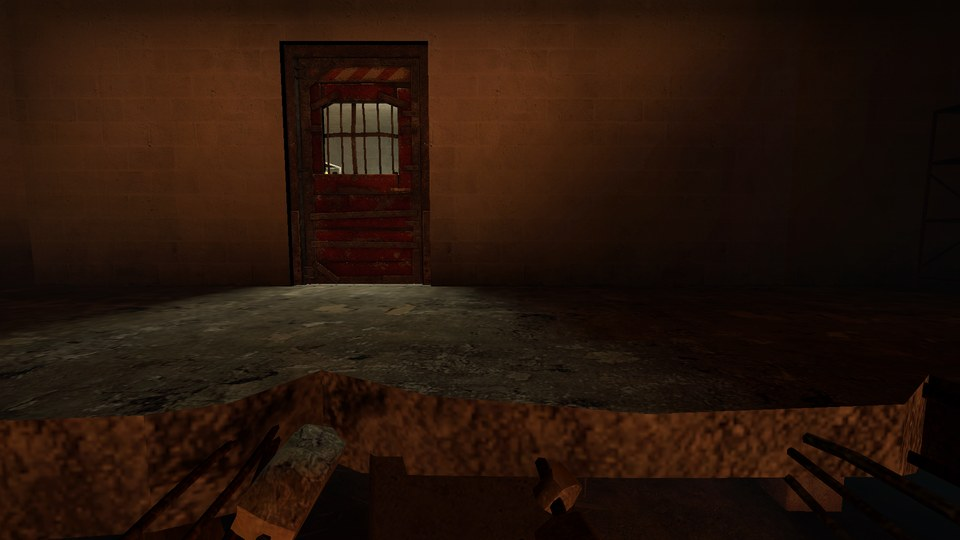
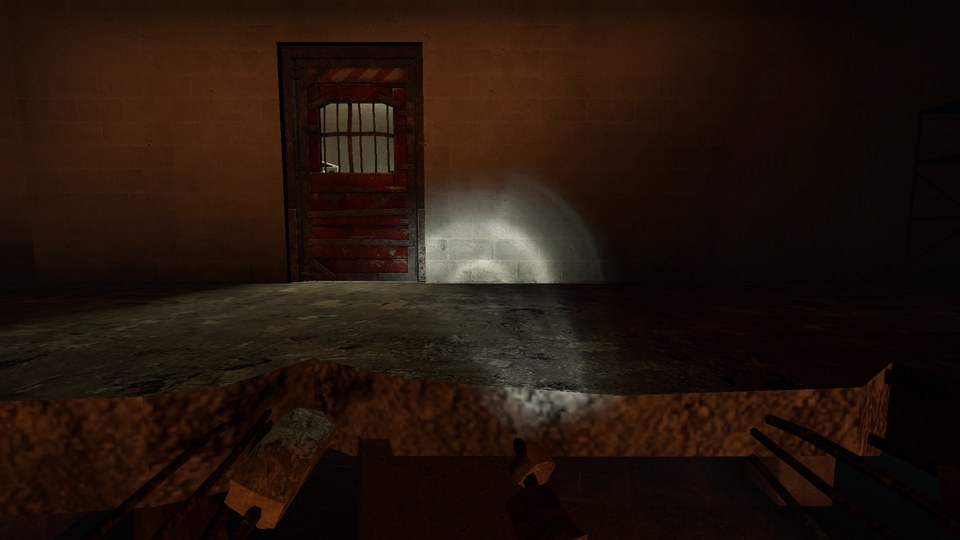
Autoexec glows: preview colours match the game in the infected views, item glow picture, ghost/spawned infected views
The glow strength masks were measured from one white shot, which clips on the bright infected-view
backgrounds, so infected-side glows showed 25-35% too weak and off-hue. Masks are now solved per pixel
from every unclipped channel of eight colour shots (new in-game captures, runs 4-6) and checked against
held-out shots at the default colours. Survivor glows seen as a ghost are the game's own outlines;
the item glow (the item under the crosshair, in reach / out of reach) has its own saferoom shot.

diff --git a/web/src/routes/Autoexec.tsx b/web/src/routes/Autoexec.tsx
@@ -1,3 +1,4 @@
+import type { ComponentChildren } from 'preact';
 import { useEffect, useMemo, useRef, useState } from 'preact/hooks';
 import { Panel } from '../components/bits';
 import { HudTabs } from '../components/HudTabs';
@@ -29,25 +30,32 @@ const HAS_CB = new Set(GLOWS.filter((g) => g.colorblind).map((g) => g.id.replace
 /** The cvar a row edits: its colour-blind variant while that set is being edited. */
 const rowId = (id: string, cb: boolean) => (cb && HAS_CB.has(id) ? `${id}_colorblind` : id);
 
+type Group = 'survivor' | 'items' | 'infected';
+const GROUP_OF: Record<Scene['id'], Group> = { survivor: 'survivor', items: 'items', ghost: 'infected', spawned: 'infected' };
+
 /** Which preview outline shows a glow, and what that outline is called while it does. */
-const SHOWN_ON: Record<string, { scene: Scene['id']; slot: string; label: string }> = {
-  survivor: { scene: 'survivor', slot: 'teammate', label: 'Teammate' },
-  survivor_hurt: { scene: 'survivor', slot: 'incap', label: 'Incapped' },
-  survivor_vomit: { scene: 'survivor', slot: 'boomed', label: 'Boomed' },
-  infected: { scene: 'infected', slot: 'teammate', label: 'Infected teammate' },
-  ghost_infected: { scene: 'infected', slot: 'teammate', label: 'Ghost teammate' },
-  survivor_health_high: { scene: 'infected', slot: 'high', label: 'High health' },
-  survivor_health_med: { scene: 'infected', slot: 'med', label: 'Medium health' },
-  survivor_health_low: { scene: 'infected', slot: 'low', label: 'Low health' },
-  infected_vomit: { scene: 'infected', slot: 'med', label: 'Boomed' },
-  ability: { scene: 'infected', slot: 'low', label: 'Ability' },
+const SHOWN_ON: Record<string, { group: Group; slot: string; label: string }> = {
+  survivor: { group: 'survivor', slot: 'teammate', label: 'Teammate' },
+  survivor_hurt: { group: 'survivor', slot: 'incap', label: 'Incapped' },
+  survivor_vomit: { group: 'survivor', slot: 'boomed', label: 'Boomed' },
+  item: { group: 'items', slot: 'item', label: 'In reach' },
+  item_far: { group: 'items', slot: 'item', label: 'Out of reach' },
+  thirdstrike_item: { group: 'items', slot: 'item', label: 'Black and white' },
+  infected: { group: 'infected', slot: 'teammate', label: 'Infected teammate' },
+  ghost_infected: { group: 'infected', slot: 'teammate', label: 'Ghost teammate' },
+  survivor_health_high: { group: 'infected', slot: 'high', label: 'High health' },
+  survivor_health_med: { group: 'infected', slot: 'med', label: 'Medium health' },
+  survivor_health_low: { group: 'infected', slot: 'low', label: 'Low health' },
+  infected_vomit: { group: 'infected', slot: 'boomed', label: 'Boomed' },
+  ability: { group: 'infected', slot: 'low', label: 'Ability' },
 };
 
 /** The glow each outline shows when nothing that shares it is picked. */
 const SLOT_DEFAULT: Record<string, string> = {
   'survivor/teammate': 'survivor', 'survivor/incap': 'survivor_hurt', 'survivor/boomed': 'survivor_vomit',
+  'items/item': 'item',
   'infected/teammate': 'infected', 'infected/high': 'survivor_health_high',
-  'infected/med': 'survivor_health_med', 'infected/low': 'survivor_health_low',
+  'infected/med': 'survivor_health_med', 'infected/low': 'survivor_health_low', 'infected/boomed': 'infected_vomit',
 };
 
 const PLAIN = GLOWS.filter((g) => !g.colorblind);
@@ -58,6 +66,7 @@ export function Autoexec() {
   const [focus, setFocus] = useState<string | null>(null);
   const [status, setStatus] = useState('');
   const [paste, setPaste] = useState('');
+  const [infView, setInfView] = useState<'ghost' | 'spawned'>('ghost');
 
   const set = (next: AutoexecState) => { setState(next); saveState(next); };
   const setGlow = (id: string, c: Rgb) => set({ ...state, glows: { ...state.glows, [id]: c } });
@@ -66,7 +75,7 @@ export function Autoexec() {
   const slotGlow = useMemo(() => {
     const out: Record<string, string> = { ...SLOT_DEFAULT };
     const at = focus ? SHOWN_ON[focus] : undefined;
-    if (at) out[`${at.scene}/${at.slot}`] = focus!;
+    if (at) out[`${at.group}/${at.slot}`] = focus!;
     return out;
   }, [focus]);
 
@@ -191,21 +200,33 @@ export function Autoexec() {
         </Panel>
 
         <div class="ax__previews">
-          {SCENES.map((scene) => (
-            <ScenePreview
-              key={scene.id} scene={scene} focus={focus}
-              colours={Object.fromEntries(scene.slots.map((s) => [s.key, colourOf(slotGlow[`${scene.id}/${s.key}`])]))}
-              labels={Object.fromEntries(scene.slots.map((s) => {
-                const id = slotGlow[`${scene.id}/${s.key}`];
-                return [s.key, SHOWN_ON[id].label];
-              }))}
-              picked={Object.fromEntries(scene.slots.map((s) => [s.key, slotGlow[`${scene.id}/${s.key}`] === focus]))}
-            />
-          ))}
+          {SCENES.filter((sc) => sc.id !== (infView === 'ghost' ? 'spawned' : 'ghost')).map((scene) => {
+            const g = GROUP_OF[scene.id];
+            const glowAt = (key: string) => slotGlow[`${g}/${key}`];
+            return (
+              <ScenePreview
+                key={scene.id} scene={scene} focus={focus}
+                switcher={g === 'infected' ? (
+                  <div class="ax__views" role="group" aria-label="Infected view">
+                    {(['ghost', 'spawned'] as const).map((v) => (
+                      <button key={v} type="button" class={`chip${infView === v ? ' is-on' : ''}`} aria-pressed={infView === v}
+                        onClick={() => setInfView(v)}>{v === 'ghost' ? 'Ghost' : 'Spawned'}</button>
+                    ))}
+                  </div>
+                ) : undefined}
+                colours={Object.fromEntries(scene.slots.map((s) => [s.key, colourOf(glowAt(s.key))]))}
+                labels={Object.fromEntries(scene.slots.map((s) => [s.key, SHOWN_ON[glowAt(s.key)].label]))}
+                picked={Object.fromEntries(scene.slots.map((s) => [s.key, glowAt(s.key) === focus]))}
+              />
+            );
+          })}
           <p class="muted ax__note">
-            Shots from the game at 1920 x 1080 with the outlines it draws through walls; the colours are laid on the
-            way the game adds them. Pick a row to see it here. Items have no picture yet: their outline is the same
-            kind, around the item.
+            Shots from the game at 1920 x 1080, with the outlines it draws; your colours are added the way the game adds
+            them, checked against shots of the default colours. Pick a row to see it here. The game draws the glow the
+            same way in every view: the infected views tint everything else, which is why the same colour looks
+            different there. Outlines are the game's own from that shot, except the teammate in the ghost view and the
+            survivors in the spawned view, which come from other shots. As infected, survivors' glows fade with how much
+            noise they make, so a quiet survivor can look dimmer than shown.
           </p>
         </div>
       </div>
@@ -243,25 +264,25 @@ function GlowRow({ glow, cvar, colour, def, active, onFocus, onChange }: {
   );
 }
 
-function ScenePreview({ scene, colours, labels, picked, focus }: {
+function ScenePreview({ scene, colours, labels, picked, focus, switcher }: {
   scene: Scene; colours: Record<string, Rgb>; labels: Record<string, string>;
-  picked: Record<string, boolean>; focus: string | null;
+  picked: Record<string, boolean>; focus: string | null; switcher?: ComponentChildren;
 }) {
   const canvas = useRef<HTMLCanvasElement>(null);
   const key = JSON.stringify(colours);
   useEffect(() => {
     if (canvas.current) paintScene(canvas.current, scene, colours).catch(() => {});
-  }, [key]);
+  }, [key, scene.id]);
   return (
     <figure class="ax__scene">
-      <figcaption class="eyebrow">{scene.title}</figcaption>
+      <figcaption class="ax__cap"><span class="eyebrow">{scene.title}</span>{switcher}</figcaption>
       <div class="ax__frame">
         <canvas ref={canvas} class="ax__canvas" role="img"
           aria-label={`${scene.title}: ${scene.slots.map((s) => `${labels[s.key]} ${toHex(colours[s.key])}`).join(', ')}`} />
         {scene.slots.map((s) => {
           const at = slotAnchor(s, MASK_SIZE);
           return (
-            <span key={s.key} class={`ax__tag${picked[s.key] && focus ? ' is-picked' : ''}`}
+            <span key={s.key} class={`ax__tag${at.above ? ' is-above' : ''}${picked[s.key] && focus ? ' is-picked' : ''}`}
               style={{ left: `${at.left}%`, top: `${at.top}%` }}>
               {labels[s.key]}
             </span>

diff --git a/web/src/autoexec/preview.ts b/web/src/autoexec/preview.ts
@@ -5,23 +5,42 @@
  * Every asset under /autoexec/ came from the owner's L4D1 client through the
  * in-game harness (~/l4d/hud/probe-autoexec-glow, NOTES.md there): a shot with
  * every glow off, then the same view with one glow set to white. The glow-*.png
- * masks hold, per pixel, how much the white glow brightened the shot (red
- * channel, square-root coded) and the black body fill the game draws inside
- * the outline (green channel). Comparing against shots taken with other
- * colours, the game's result is matched best by adding colour^0.75 * k in
- * plain sRGB values: within ~6/255 of the real capture on average.
+ * masks hold, per pixel, how much light the glow adds at full colour (red
+ * channel, square-root coded, solved from every unclipped channel of eight
+ * colour shots so a bright background does not weaken it) and the black body
+ * fill the game draws inside the outline (green channel). The game adds
+ * colour^0.75 * k in plain sRGB values, the same in every view: the infected
+ * views only look different because of their background grading. Checked
+ * against held-out shots at the default colours (NOTES.md).
  */
 import { type Rgb } from './glows';
 
 export const SCENE_W = 960;
 export const SCENE_H = 540;
 
-export type MaskName = 'standing' | 'incap' | 'smoker';
-const MASK_AT: Record<MaskName, { x: number; y: number }> = {
-  standing: { x: 615, y: 155 },
-  incap: { x: 279, y: 197 },
-  smoker: { x: 360, y: 344 },
+export type MaskName =
+  | 'standing' | 'standing2' | 'incap' | 'ghost1' | 'ghost2' | 'ghost3' | 'ghost4' | 'smoker' | 'ammo';
+
+/** Where each outline was captured (half-size coordinates) and its PNG size; masks.json in the probe folder. */
+export const MASK_AT: Record<MaskName, { x: number; y: number; w: number; h: number }> = {
+  standing: { x: 515, y: 158, w: 53, h: 122 },
+  standing2: { x: 569, y: 158, w: 54, h: 122 },
+  incap: { x: 402, y: 223, w: 79, h: 63 },
+  ghost1: { x: 340, y: 163, w: 54, h: 120 },
+  ghost2: { x: 569, y: 156, w: 70, h: 129 },
+  ghost3: { x: 639, y: 180, w: 61, h: 96 },
+  ghost4: { x: 750, y: 176, w: 73, h: 102 },
+  smoker: { x: 362, y: 346, w: 65, h: 160 },
+  ammo: { x: 398, y: 192, w: 158, h: 69 },
 };
+
+/** Mask sizes at full scale, so labels can be placed before images load. */
+export const MASK_SIZE: Record<MaskName, { w: number; h: number }> = Object.fromEntries(
+  Object.entries(MASK_AT).map(([k, v]) => [k, { w: v.w, h: v.h }]),
+) as Record<MaskName, { w: number; h: number }>;
+
+/** The mask's red channel is sqrt(K / K_MAX): K can pass 1 where the game's outline core clips to white. */
+const K_MAX = 3;
 
 export interface Slot {
   key: string;
@@ -29,32 +48,50 @@ export interface Slot {
   x: number;
   y: number;
   scale: number;
+  /** Put the label above the outline (when a neighbour's label would collide). */
+  above?: boolean;
+  /** Not captured in this shot: the outline is the game's, taken from another shot. */
+  pasted?: boolean;
 }
 
+export type SceneId = 'survivor' | 'items' | 'ghost' | 'spawned';
 export interface Scene {
-  id: 'survivor' | 'infected';
+  id: SceneId;
   title: string;
   src: string;
   slots: Slot[];
 }
 
-/** Where each outline sits. The first slot of each mask is where it was captured; the rest are copies. */
+const at = (key: string, mask: MaskName): Slot => ({ key, mask, x: MASK_AT[mask].x, y: MASK_AT[mask].y, scale: 1 });
+
+/**
+ * Where each outline sits. Every slot without `pasted` is the game's own outline in that very shot.
+ * The two infected scenes share slot keys, so a glow shows in whichever of them is on screen.
+ */
 export const SCENES: Scene[] = [
   {
     id: 'survivor', title: 'As a survivor', src: '/autoexec/scene-survivor.jpg',
+    slots: [at('teammate', 'standing'), { ...at('boomed', 'standing2'), above: true }, { ...at('incap', 'incap'), above: true }],
+  },
+  {
+    id: 'items', title: 'Item under your crosshair', src: '/autoexec/scene-items.jpg',
+    slots: [at('item', 'ammo')],
+  },
+  {
+    id: 'ghost', title: 'As infected: ghost', src: '/autoexec/scene-ghost.jpg',
     slots: [
-      { key: 'teammate', mask: 'standing', ...MASK_AT.standing, scale: 1 },
-      { key: 'incap', mask: 'incap', ...MASK_AT.incap, scale: 1 },
-      { key: 'boomed', mask: 'standing', x: 800, y: 172, scale: 0.88 },
+      at('high', 'ghost1'), at('med', 'ghost2'), { ...at('low', 'ghost3'), above: true }, at('boomed', 'ghost4'),
+      { key: 'teammate', mask: 'smoker', x: 150, y: 250, scale: 0.95, pasted: true },
     ],
   },
   {
-    id: 'infected', title: 'As infected', src: '/autoexec/scene-infected.jpg',
+    id: 'spawned', title: 'As infected: spawned', src: '/autoexec/scene-spawned.jpg',
     slots: [
-      { key: 'teammate', mask: 'smoker', ...MASK_AT.smoker, scale: 1 },
-      { key: 'high', mask: 'standing', x: 40, y: 150, scale: 0.95 },
-      { key: 'med', mask: 'standing', x: 790, y: 140, scale: 0.95 },
-      { key: 'low', mask: 'standing', x: 190, y: 168, scale: 0.8 },
+      at('teammate', 'smoker'),
+      { key: 'high', mask: 'standing', x: 40, y: 150, scale: 1.05, pasted: true },
+      { key: 'med', mask: 'standing2', x: 800, y: 140, scale: 1.05, pasted: true },
+      { key: 'low', mask: 'standing', x: 190, y: 172, scale: 0.85, pasted: true },
+      { key: 'boomed', mask: 'standing2', x: 560, y: 160, scale: 0.9, pasted: true },
     ],
   },
 ];
@@ -93,7 +130,7 @@ function maskData(img: HTMLImageElement, name: string, scale: number): MaskData 
   const fill = new Float32Array(w * h);
   for (let i = 0; i < w * h; i++) {
     const r = px[i * 4] / 255;
-    k[i] = r * r;
+    k[i] = r * r * K_MAX;
     fill[i] = px[i * 4 + 1] / 255;
   }
   const out = { w, h, k, fill };
@@ -148,13 +185,7 @@ export function slotAnchor(slot: Slot, maskSize: Record<MaskName, { w: number; h
   const s = maskSize[slot.mask];
   return {
     left: ((slot.x + (s.w * slot.scale) / 2) / SCENE_W) * 100,
-    top: ((slot.y + s.h * slot.scale) / SCENE_H) * 100,
+    top: ((slot.above ? slot.y : slot.y + s.h * slot.scale) / SCENE_H) * 100,
+    above: !!slot.above,
   };
 }
-
-/** Mask sizes at full scale (the PNGs' own sizes), so labels can be placed before images load. */
-export const MASK_SIZE: Record<MaskName, { w: number; h: number }> = {
-  standing: { w: 70, h: 130 },
-  incap: { w: 157, h: 100 },
-  smoker: { w: 68, h: 162 },
-};

diff --git a/web/src/autoexec/glows.ts b/web/src/autoexec/glows.ts
@@ -33,9 +33,9 @@ export const GLOWS: readonly GlowCvar[] = [
   { id: 'survivor', side: 'survivor', label: 'Teammate', hint: 'A teammate out of sight, through walls.', def: [0.3, 0.4, 1.0] },
   { id: 'survivor_hurt', side: 'survivor', label: 'Incapped teammate', hint: 'A teammate who is down or hanging.', def: [1.0, 0.4, 0.0] },
   { id: 'survivor_vomit', side: 'survivor', label: 'Boomed teammate', hint: 'A teammate covered in Boomer bile.', def: [1.0, 0.4, 0.0] },
-  { id: 'item', side: 'survivor', label: 'Item, close', hint: 'Weapons and items you are near enough to pick up.', def: [0.7, 0.7, 1.0] },
-  { id: 'item_far', side: 'survivor', label: 'Item, far', hint: 'Weapons and items further away.', def: [0.3, 0.4, 1.0] },
-  { id: 'thirdstrike_item', side: 'survivor', label: 'Health item on last life', hint: 'Health items while you are black and white.', def: [1.0, 0.0, 0.0] },
+  { id: 'item', side: 'survivor', label: 'Item in reach', hint: 'The item under your crosshair, close enough to pick up.', def: [0.7, 0.7, 1.0] },
+  { id: 'item_far', side: 'survivor', label: 'Item out of reach', hint: 'The item under your crosshair, too far away to pick up yet.', def: [0.3, 0.4, 1.0] },
+  { id: 'thirdstrike_item', side: 'survivor', label: 'Item on last life', hint: 'Replaces the item colours while you are black and white.', def: [1.0, 0.0, 0.0] },
   { id: 'survivor_health_high', side: 'infected', label: 'Survivor, high health', hint: 'How you see survivors as infected.', def: [0.039, 0.69, 0.196] },
   { id: 'survivor_health_med', side: 'infected', label: 'Survivor, medium health', hint: 'How you see survivors as infected.', def: [0.59, 0.4, 0.032] },
   { id: 'survivor_health_low', side: 'infected', label: 'Survivor, low health', hint: 'How you see survivors as infected.', def: [0.63, 0.098, 0.098] },
@@ -48,7 +48,7 @@ export const GLOWS: readonly GlowCvar[] = [
   { id: 'survivor_health_med_colorblind', side: 'infected', colorblind: true, label: 'Survivor, medium health', hint: 'Colour-blind set.', def: [0.694, 0.573, 0.098] },
   { id: 'survivor_health_low_colorblind', side: 'infected', colorblind: true, label: 'Survivor, low health', hint: 'Colour-blind set.', def: [0.047, 0.807, 0.807] },
   { id: 'ability_colorblind', side: 'infected', colorblind: true, label: 'Ability', hint: 'Colour-blind set.', def: [0.3, 1.0, 1.0] },
-  { id: 'thirdstrike_item_colorblind', side: 'survivor', colorblind: true, label: 'Health item on last life', hint: 'Colour-blind set.', def: [0.3, 1.0, 1.0] },
+  { id: 'thirdstrike_item_colorblind', side: 'survivor', colorblind: true, label: 'Item on last life', hint: 'Colour-blind set.', def: [0.3, 1.0, 1.0] },
 ];
 
 const BY_ID = new Map(GLOWS.map((g) => [g.id, g]));

diff --git a/web/src/routes/Autoexec.test.tsx b/web/src/routes/Autoexec.test.tsx
@@ -37,4 +37,20 @@ describe('Autoexec builder', () => {
     fireEvent.click(screen.getByText('Ghost teammate', { selector: '.ax__name span' }));
     expect(screen.getByText('Ghost teammate', { selector: '.ax__tag' })).toBeTruthy();
   });
+
+  it('shows the item under the crosshair with the picked item glow', () => {
+    render(<Autoexec />);
+    expect(screen.getByText('In reach', { selector: '.ax__tag' })).toBeTruthy();
+    fireEvent.click(screen.getByText('Item out of reach', { selector: '.ax__name span' }));
+    expect(screen.getByText('Out of reach', { selector: '.ax__tag' })).toBeTruthy();
+  });
+
+  it('switches the infected preview between the ghost and spawned views', () => {
+    render(<Autoexec />);
+    expect(screen.getByText('As infected: ghost')).toBeTruthy();
+    expect(screen.queryByText('As infected: spawned')).toBeNull();
+    fireEvent.click(screen.getByRole('button', { name: 'Spawned' }));
+    expect(screen.getByText('As infected: spawned')).toBeTruthy();
+    expect(screen.queryByText('As infected: ghost')).toBeNull();
+  });
 });

diff --git a/web/src/styles/app.css b/web/src/styles/app.css
@@ -6658,12 +6658,15 @@ a.mapch__name:hover { color: var(--accent); }
 .ax__previews { position: sticky; top: var(--sp-4); display: flex; flex-direction: column; gap: var(--sp-4); min-width: 0; }
 .ax__scene { margin: 0; }
 .ax__scene figcaption { margin-bottom: var(--sp-2); }
+.ax__cap { display: flex; align-items: center; justify-content: space-between; gap: var(--sp-2); flex-wrap: wrap; }
+.ax__views { display: flex; gap: var(--sp-1); }
 .ax__frame { position: relative; }
 .ax__canvas { display: block; width: 100%; aspect-ratio: 16 / 9; border: 1px solid var(--border); background: #000; }
 .ax__tag {
   position: absolute; transform: translate(-50%, 4px); padding: 1px 6px; font-size: var(--fs-label);
   color: #fff; background: rgba(0, 0, 0, 0.6); border: 1px solid transparent; white-space: nowrap; pointer-events: none;
 }
+.ax__tag.is-above { transform: translate(-50%, calc(-100% - 4px)); }
 .ax__tag.is-picked { border-color: var(--accent); }
 .ax__note { font-size: var(--fs-dense); margin: 0; }
 .ax__row {
